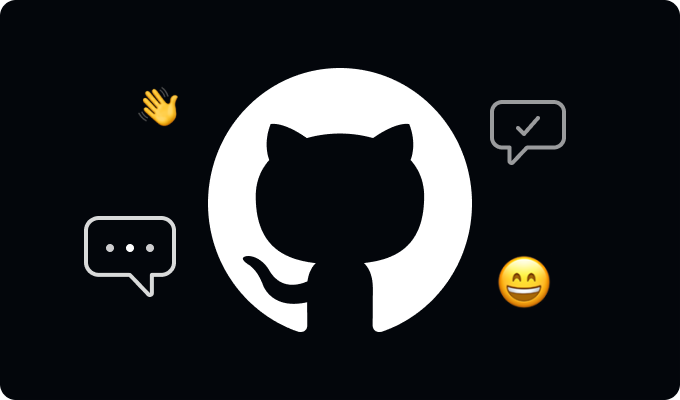
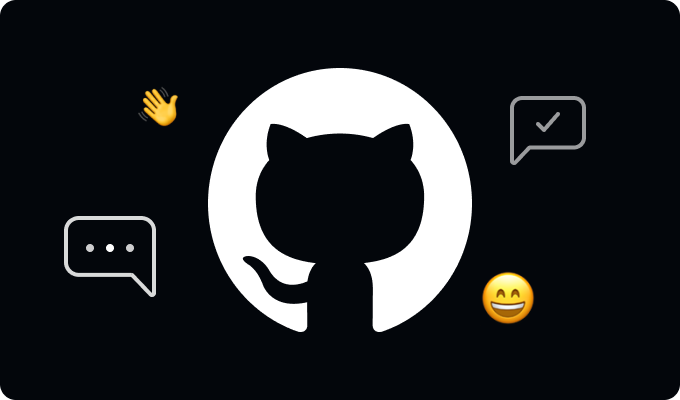
fix(community): update design to match Figma (#47)

Changed region(s): [[0.0926, 0.54, 0.2779, 0.75], [0.7103, 0.24, 0.8647, 0.42], [0.7103, 0.63, 0.8338, 0.81]]

diff --git a/src/components/capacitor-site-header/capacitor-site-header.scss b/src/components/capacitor-site-header/capacitor-site-header.scss
@@ -6,7 +6,7 @@
   top: -1px;
   background: transparent;
   display: block;
-  padding: 16px 0;
+  padding: 14px 0 13px;
   box-shadow: 0px 1px 0px rgba(0, 0, 0, 0.06);
   transition: background-color 0.4s ease, box-shadow 0.4s ease;
 
@@ -41,7 +41,7 @@
   }
 
   &__logo-link {
-    margin: 0;
+    margin: 0 0 2px;
     display: flex;
     align-items: center;
     text-decoration: none;
@@ -73,19 +73,22 @@
       align-items: center;
       justify-content: space-evenly;
       max-width: 550px;
+      margin-left: 15px;
     }
 
     a {
       border-bottom: 0;
       transition: color, opacity .4s;
       font-size: 15px;
+      line-height: 18px;
       font-family: var(--f-family-text);
       // color: var(--c-carbon-90);
-      color: #222D3A;
+      color: #222d3a;
       // opacity: 0.4;
       text-decoration: none;
       font-weight: normal;
-      letter-spacing: -0.02em;
+      letter-spacing: 0;
+      margin: 0 2px 0 0;
 
       &:hover {
         opacity: 1;
@@ -122,25 +125,31 @@
 
   &__buttons {
     min-width: 130px;
-  
+    margin-top: 2px;
+
     .ui-button {
-      font-size: var(--f-size-4);
+      font-size: 15px;
       letter-spacing: var(--f-tracking-tight);
       line-height: 18px;
-      padding: 6px 10px;
-      margin-left: 5px;
+      padding: 8px 10px;
+      margin-left: 13px;
+      margin-right: -2px;
+      margin-top: -1px;
     }
 
     &__github {
       background: #fff;
-      border: 1px solid #EBEFF4;
+      border: 1px solid #ebeff4;
       color: var(--c-indigo-80);
       line-height: 0;
 
       ion-icon {
         vertical-align: middle;
-        margin-right: 6px;
+        margin-right: 5px;
         margin-top: -2px;
+        margin-left: -2px;
+        font-size: 16px;
+        color: #73849a;
       }
     }
     &__install {

diff --git a/src/components/community/capacitor-community.tsx b/src/components/community/capacitor-community.tsx
@@ -30,18 +30,18 @@ export class CapacitorCommunity {
             </Col>
             <Col md={4} sm={4} xs={4} cols={12}>
               <a href="https://github.com/capacitor-community">
-                <img src="/assets/img/community/support-community.png" alt="GitHub Discussions" />
+                <img src="/assets/img/community/support-community.png" alt="Community Organization" />
               </a>
-              <Heading level={2}>Capacitor Community</Heading>
+              <Heading level={2}>Community Organization</Heading>
               <Paragraph>
                 View a list of curated community plugins to enhance your app even more. From music controls, advanced native HTTP, and more
               </Paragraph>
             </Col>
             <Col md={4} sm={4} xs={4} cols={12}>
               <a href="https://twitter.com/capacitorjs">
-                <img src="/assets/img/community/support-twitter.png" alt="GitHub Discussions" />
+                <img src="/assets/img/community/support-twitter.png" alt="Capacitor Twitter" />
               </a>
-              <Heading level={2}>Twitter</Heading>
+              <Heading level={2}>Capacitor Twitter</Heading>
               <Paragraph>
                 Get the latest news and join the community by following us on Twitter
               </Paragraph>

diff --git a/src/components/community/capacitor-community.scss b/src/components/community/capacitor-community.scss
@@ -4,16 +4,30 @@
 
 hgroup {
   text-align: center;
-  padding: var(--space-11) 0;
+  padding: var(--space-12) 0;
   max-width: 560px;
   margin: auto;
 
   .ui-heading {
     font-family: var(--f-family-display);
-    font-weight: 600;
+    font-weight: 700;
     letter-spacing: var(--f-tracking-dense);
     color: var(--c-carbon-100);
+    margin: 4px 0;
   }
+
+  .ui-paragraph {
+    font-size: 20px;
+    line-height: 1.6em;
+    margin: 8px 0 0 3px;
+    letter-spacing: -0.02em;
+  }
+}
+
+.ui-grid {
+  column-gap: 56px;
+  margin-top: -11px;
+  padding-bottom: var(--space-12);
 }
 
 .ui-col {
@@ -25,8 +39,15 @@ hgroup {
     max-width: 100%;
   }
   .ui-heading {
-    margin: 32px 0 24px;
+    margin: 28px 0 16px 2px;
     font-size: 20px;
     font-family: var(--f-family-text);
+    font-weight: 500;
+    letter-spacing: -0.02em;
+  }
+  .ui-paragraph {
+    margin: 0 0 0 2px;
+    font-size: 16px;
+    line-height: 1.6em;
   }
 }

diff --git a/src/components/capacitor-site-header/capacitor-site-header.tsx b/src/components/capacitor-site-header/capacitor-site-header.tsx
@@ -31,7 +31,7 @@ export class SiteHeader {
 
   async componentWillLoad() {
     // TODO pull this in from GitHub at build
-    this.starCount = formatNumber('4.1k');
+    this.starCount = formatNumber('4.1K');
 
     // Figure out if we should force hover a nav item
     this.forceHovered = Router.activePath.replace('/', '').replace('#', '');
